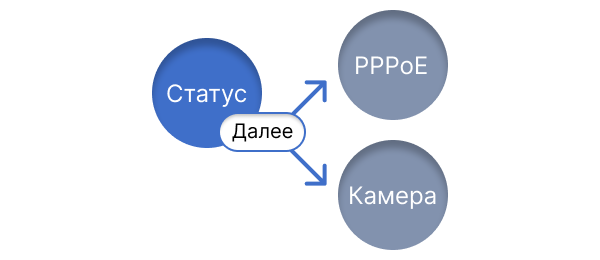
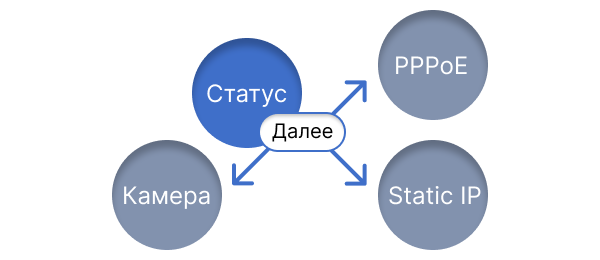
добавлена нстройка статического IP через приложение

Changed region(s): [[0.18, 0.0308, 0.84, 0.9846]]

diff --git a/src/pages/user/Wifi.jsx b/src/pages/user/Wifi.jsx
@@ -11,6 +11,7 @@ import { searchIdUs } from '../../functions/settingPppoe';
 import { getNumberBrowserUrl, getParamBrowserUrl } from '../../functions/url';
 import { getRegion } from '../../functions/region';
 import { setLogin } from '../../store/actions/loginActions';
+import { closeTask } from '../../functions/work';
 import SelectSSID from '../../components/Select/SelectSSID';
 import SelectSSID5 from '../../components/Select/SelectSSID5';
 import Input from '../../components/Input';
@@ -28,6 +29,7 @@ function Wifi() {
   const serialFromRedux = useSelector((state) => state.serial.serial);
   const progressFromRedux = useSelector((state) => state.progress.progress);
   const regionFromRedux = useSelector((state) => state.region.region);
+  const page = useSelector((state) => state.task.page);
   const [serial, setSerialState] = useState(serialFromRedux || '');
   const [regionId, setRegionId] = useState(regionFromRedux || '');
   const [loading, setLoading] = useState(false);
@@ -41,6 +43,7 @@ function Wifi() {
   const regionFromUrl = getNumberBrowserUrl('region');
   const loginFromUrl = getParamBrowserUrl('login' || '');
   const workFromUrl = getParamBrowserUrl('work');
+  
 
   // Обработка параметров из URL
   useEffect(() => {
@@ -165,6 +168,11 @@ function Wifi() {
         navigate,
         regionId,
       });
+      if (page === 'wifi2' && result?.success){
+        closeTask({navigate, regionFromRedux, dispatch}); 
+      }
+
+
     } catch (error) {
       setResult({
         result: error.message,
@@ -260,7 +268,7 @@ function Wifi() {
         </div>
       )}
 
-      {workFromRedux === 'newConnection' && (
+      {workFromRedux === 'newConnection' && page !== 'wifi2' && (
         <NextButton
           to={`/info?region=${regionId}&work=${workFromRedux}&serial=${serialFromRedux}${
             loginFromRedux !== null ? `&login=${loginFromRedux}` : ''

diff --git a/src/pages/user/Static.jsx b/src/pages/user/Static.jsx
@@ -6,7 +6,6 @@ import { setSerial } from '../../store/actions/serialActions';
 import { setRegion } from '../../store/actions/regionActions';
 import { setIp } from '../../store/actions/ipActions';
 import { setWork } from '../../store/actions/workActions';
-import { setWarning } from '../../store/actions/warningActions';
 import { checkIP, checkMask, checkGateway, checkVlan, setStatic } from '../../functions/settingStatic';
 import { checkTaskStatus } from '../../functions/task';
 import { getNumberBrowserUrl, getParamBrowserUrl } from '../../functions/url';
@@ -17,8 +16,6 @@ import Loader from '../../components/Loader';
 import Result from '../../components/Result';
 import FormInfo from '../../components/Form/Form';
 import NextButton from '../../components/Button/NextButton';
-import ExpressButton from '../../components/Button/ExpressButton';
-import WarningForm from '../../components/Form/FromWarning';
 
 function Static() {
   const dispatch = useDispatch();
@@ -27,9 +24,7 @@ function Static() {
   const serialFromRedux = useSelector((state) => state.serial.serial);
   const progressFromRedux = useSelector((state) => state.progress.progress);
   const regionFromRedux = useSelector((state) => state.region.region);
-  const loginFromRedux = useSelector((state) => state.login.login);
   const workFromRedux = useSelector((state) => state.work.work);
-  const warningFromRedux = useSelector((state) => state.warning.warning);
   const [serial, setSerialState] = useState(serialFromRedux || '');
   const [regionId, setRegionId] = useState(regionFromRedux || '');
   const [loading, setLoading] = useState(false);
@@ -128,10 +123,6 @@ function Static() {
       setStatic({ip, mask, gateway, vlan, serial, regionId, dispatch, setResult, setProgress, navigate, setLoading });
 
     }
-
-
-
-
   };
 
   const closeForm = () => setIsFormOpen(false);

diff --git a/src/functions/settingPppoe.js b/src/functions/settingPppoe.js
@@ -6,7 +6,7 @@ import { updateUrlWithParam } from './url';
 /**
  * Получает информацию о пользователе из UserSide (US) по логину или серийному номеру через API.
  * @param {Object} data - Данные для запроса
- * @param {string} data.userLoginSerial - Логин пользователя или серийный номер NTU
+ * @param {string} data.loginFromRedux - Логин пользователя или серийный номер NTU
  * @param {string} data.serialFromRedux - Серийный номер NTU из состояния (Redux)
  * @param {Function} data.setResult - Функция для установки результата операции
  * @param {string} data.param - Тип параметра для поиска ('login' или 'serial')
@@ -15,7 +15,7 @@ import { updateUrlWithParam } from './url';
  */
 
 export async function searchIdUs(data) {
-  const { userLoginSerial, serialFromRedux, setResult, param, page } = data;
+  const { loginFromRedux, serialFromRedux, setResult, param, page } = data;
   setResult(null);
   let body;
   let info;
@@ -23,9 +23,10 @@ export async function searchIdUs(data) {
   try {
     if (param === 'login') {
       body = {
-        userLogin: userLoginSerial,
+        userLogin: loginFromRedux,
         serialNewNtu: serialFromRedux,
       };
+      
       info = await requestAPI('POST', 'userSide/getUserId', body);
 
       if (page !== 'wifi') {
@@ -43,7 +44,7 @@ export async function searchIdUs(data) {
       }
     } else {
       body = {
-        serialNewNtu: userLoginSerial,
+        serialNewNtu: serialFromRedux,
       };
       info = await requestAPI('POST', 'userSide/getUserId', body);
     }

diff --git a/src/App.jsx b/src/App.jsx
@@ -60,6 +60,7 @@ function Main() {
   const hasRegion = params.has('region');
   const hasWork = params.has('work');
   const hasLogin = params.has('login');
+  const hasIp = params.has('ip');
   const isWorkParam = params.get('work');
 
   // Состояние UI
@@ -113,9 +114,13 @@ function Main() {
     } else if (pathname === '/pppoe') {
       dispatch(setPage('pppoe'));
     } else if (pathname === '/wifi') {
-      dispatch(setPage('wifi'));
+      if (!hasIp) {
+        dispatch(setPage('wifi'));
+      } else dispatch(setPage('wifi2'));
     } else if (pathname === '/info') {
       dispatch(setPage('info'));
+    } else if (pathname === '/static') {
+      dispatch(setPage('static'));
     } else if (pathname === '/camntu') {
       dispatch(setPage('camntu'));
     } else dispatch(setPage(null));
@@ -288,7 +293,9 @@ function Main() {
         pathname === '/pppoe' ||
         pathname === '/wifi' ||
         pathname === '/malfunction' ||
-        pathname === '/replcement') &&
+        pathname === '/replcement' ||
+        pathname === '/camntu' ||
+        pathname === '/static') &&
         isWorkParam !== 'newConnection' && (
           <TaskButton onClick={openForm} text="Завершить задачу" />
         )}

diff --git a/src/components/ActionDisplay.jsx b/src/components/ActionDisplay.jsx
@@ -3,9 +3,11 @@ import { useSelector } from 'react-redux';
 import iconStatus from '../img/iconAction/iconStatus.png';
 import iconPPPOE from '../img/iconAction/iconPPPOE.png';
 import iconWiFi from '../img/iconAction/iconWiFi.png';
+import iconWiFi2 from '../img/iconAction/iconWiFi2.png';
 import iconInfo from '../img/iconAction/iconInfo.png';
 import iconPhoto from '../img/iconAction/iconPhoto.png';
 import iconCamera from '../img/iconAction/iconCamera.png';
+import iconStatic from '../img/iconAction/iconStatic.png';
 
 function ActionDisplay() {
   const page = useSelector((state) => state.task.page);
@@ -18,8 +20,12 @@ function ActionDisplay() {
         return [iconPPPOE];
       case 'wifi':
         return [iconWiFi];
+      case 'wifi2':
+        return [iconWiFi2];
       case 'info':
         return [iconInfo];
+      case 'static':
+        return [iconStatic];
       case 'end':
         return [iconPhoto];
       case 'camntu':

diff --git a/src/functions/work.js b/src/functions/work.js
@@ -9,6 +9,7 @@ import {
 } from '../store/actions/taskActions';
 import { setSerial } from '../store/actions/serialActions';
 import { setLogin } from '../store/actions/loginActions';
+import { setIp } from '../store/actions/ipActions';
 
 /**
  * Функция получения активной задачи
@@ -35,6 +36,7 @@ export async function getActiveTask(dispatch) {
       dispatch(setRegTask(null));
       dispatch(setSerial(null));
       dispatch(setLogin(null));
+      dispatch(setIp(null));
       dispatch(setTransition(false));
     }
   } catch (error) {
@@ -45,6 +47,7 @@ export async function getActiveTask(dispatch) {
     dispatch(setRegTask(null));
     dispatch(setSerial(null));
     dispatch(setLogin(null));
+    dispatch(setIp(null));
     dispatch(setTransition(false));
   }
 }
